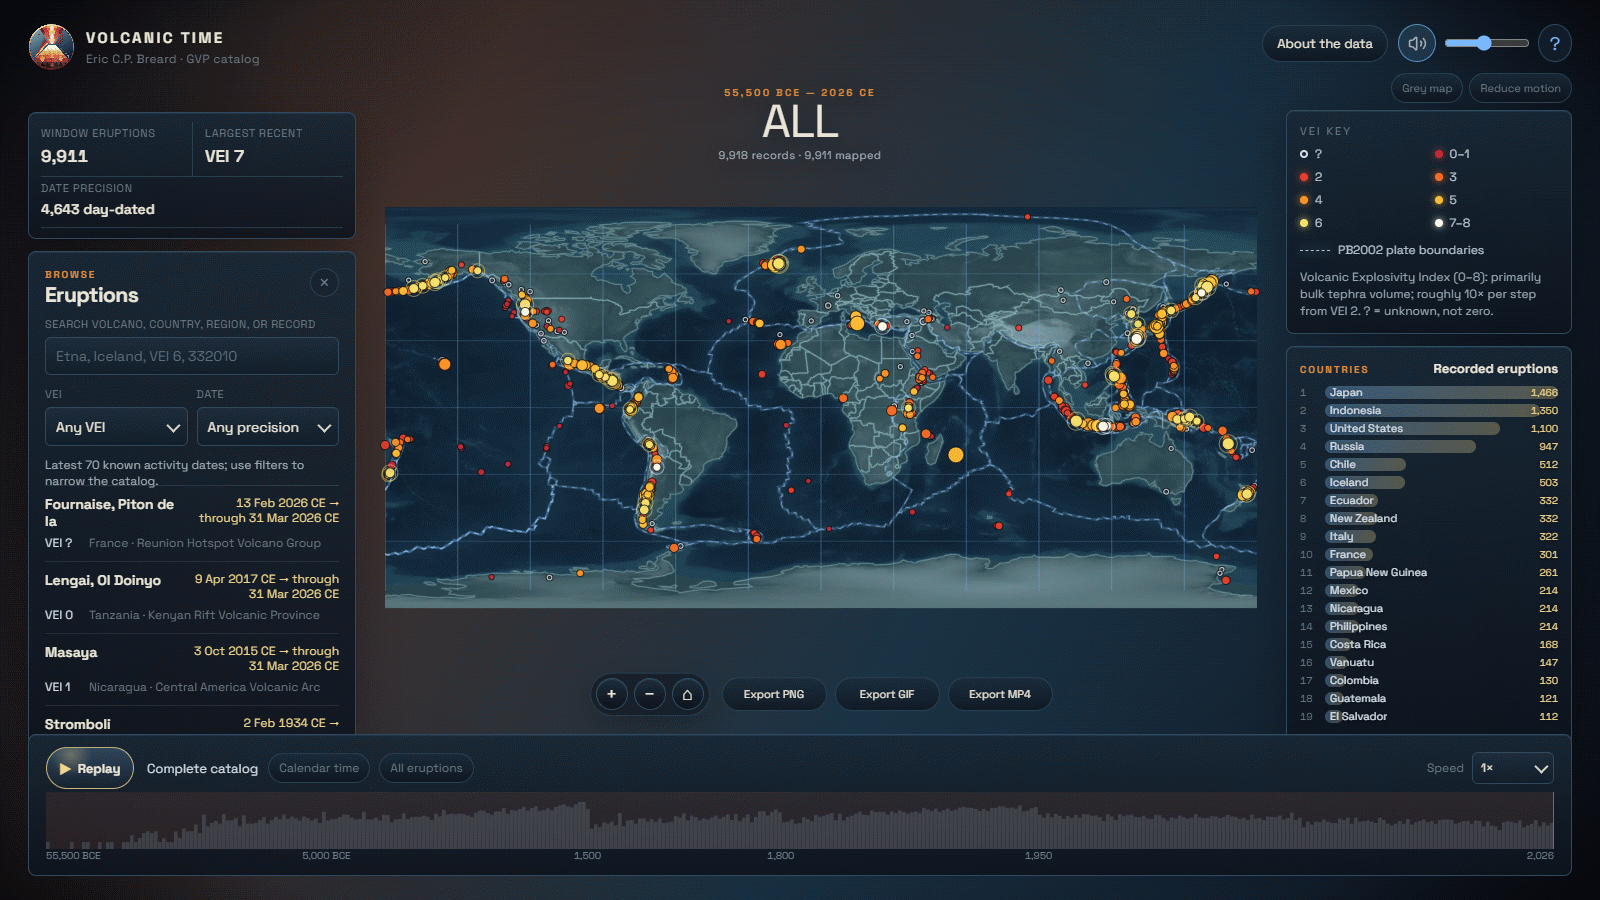
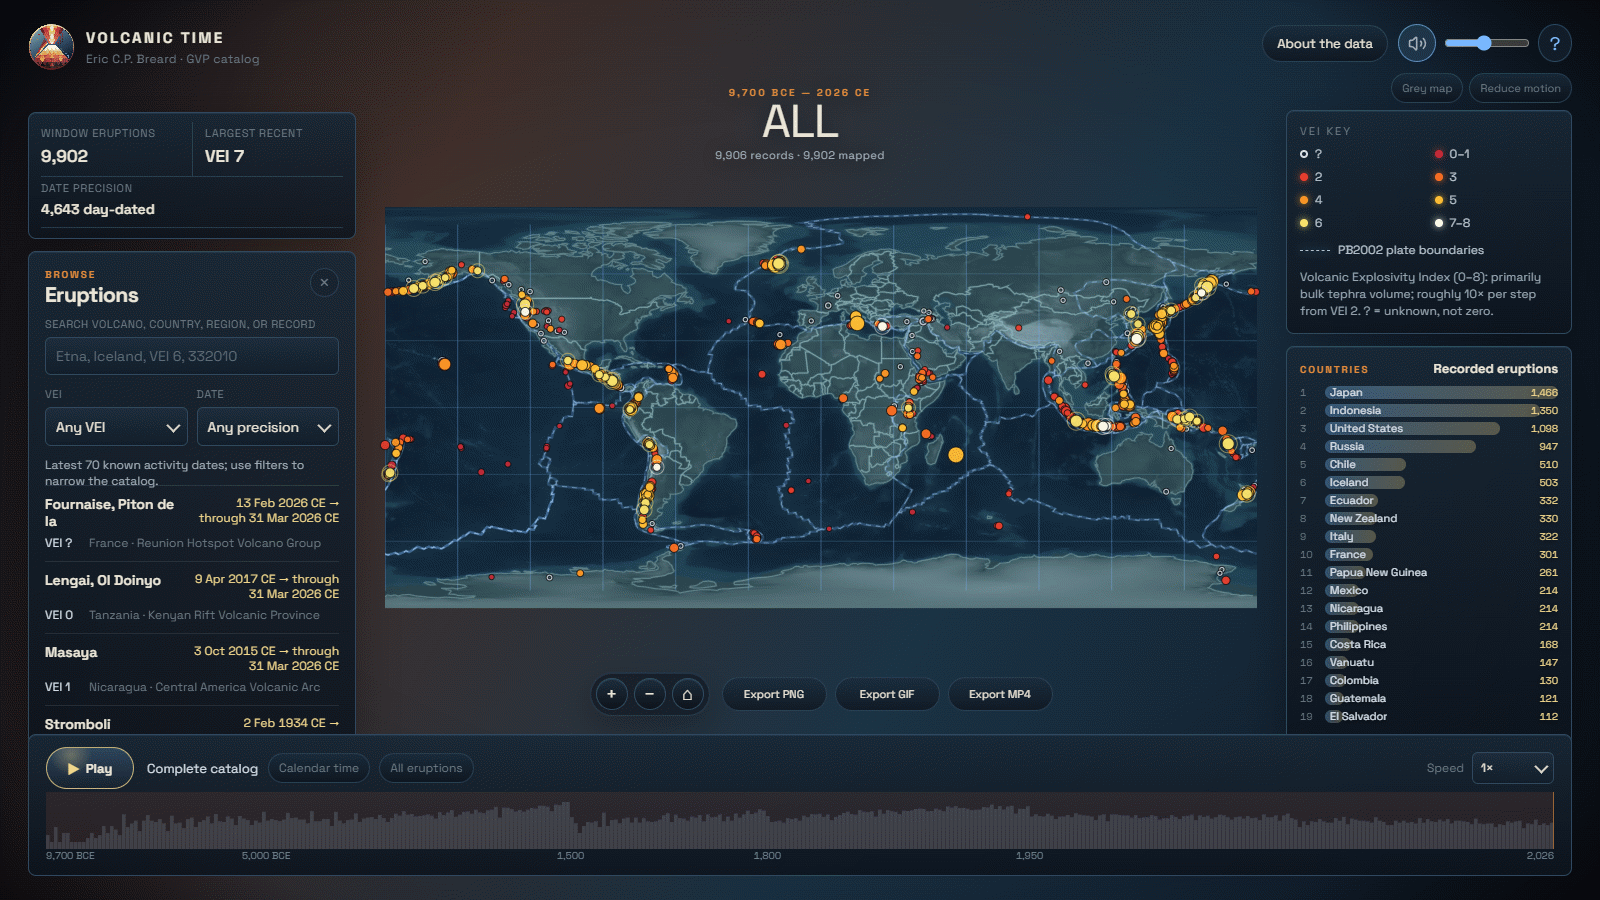
Keep only Holocene eruption records
The GVP Holocene export also lists twelve eruptions dated before 9,700 BCE, the oldest at 55,500 BCE, which stretched the timeline back well before the Holocene. They are now filtered out at load, the playback schedule starts at the first Holocene record, and the counts in the About text, README and screenshot follow.

diff --git a/index.html b/index.html
@@ -178,7 +178,7 @@
         <input id="scrubber" type="range" min="0" max="10000" value="0" aria-label="Historical date">
       </div>
       <div class="timeline-labels" aria-hidden="true">
-        <span>55,500 BCE</span><span>5000 BCE</span><span>1 CE</span><span>1500</span><span>1900</span><span>2026 CE</span>
+        <span>9,700 BCE</span><span>5000 BCE</span><span>1 CE</span><span>1500</span><span>1900</span><span>2026 CE</span>
       </div>
     </section>
 
@@ -215,7 +215,7 @@
       <button class="close dialog-close" aria-label="Close" value="close">×</button>
       <p class="eyebrow">ABOUT THE DATA</p>
       <h2>A record of observations, not a record of every eruption</h2>
-      <p>This visualization uses confirmed Holocene eruptions published by the Smithsonian Global Volcanism Program. Older records are much less complete, and their dates are often known only to a year or range. The app uses a dated Holocene eruption export, not the live weekly activity feed.</p>
+      <p>This visualization uses confirmed Holocene eruptions published by the Smithsonian Global Volcanism Program. Older records are much less complete, and their dates are often known only to a year or range. The app uses a dated Holocene eruption export, not the live weekly activity feed. Twelve records in that export are dated before 9,700 BCE, the start of the Holocene, and are left out.</p>
       <div class="method-grid">
         <div><strong>Colour</strong><span>Volcanic Explosivity Index</span></div>
         <div><strong>Soft pulse</strong><span>Imprecise start date</span></div>
@@ -254,7 +254,7 @@
         <p class="source-note"><a href="https://doi.org/10.1029/JC087iC02p01231" target="_blank" rel="noreferrer">Newhall &amp; Self (1982), The volcanic explosivity index (VEI): An estimate of explosive magnitude for historical volcanism ↗</a></p>
       </section>
       <h3>Hearing the catalogue</h3>
-      <p>Sonification means representing data with sound. Each of the 9,918 eruption records in the saved GVP catalogue plays a drum or cymbal hit. The 7,725 records with a known VEI also play a quiet piano note. The 2,193 records with an unknown VEI play only a tap on the snare drum's rim. The seven records without matched coordinates play equally through both speakers but have no map marker. These are musical sounds chosen to represent the data, not recordings of real eruptions.</p>
+      <p>Sonification means representing data with sound. Each of the 9,906 Holocene eruption records in the saved GVP catalogue plays a drum or cymbal hit. The 7,719 records with a known VEI also play a quiet piano note. The 2,187 records with an unknown VEI play only a tap on the snare drum's rim. The four records without matched coordinates play equally through both speakers but have no map marker. These are musical sounds chosen to represent the data, not recordings of real eruptions.</p>
       <ul class="source-note">
         <li><strong>Which drum or cymbal plays:</strong> VEI 0 uses closed hi-hat cymbals; 1, a bass drum (kick); 2, a snare drum; 3, a higher tom drum; 4, a lower tom drum; 5, a ride cymbal; 6, a crash cymbal; and 7-8, a China cymbal. Unknown VEI uses a drum-rim tap, a separate sound from VEI 0.</li>
         <li><strong>How high or low the piano note is:</strong> higher VEI produces a lower note that lasts longer. VEI 0-8 uses the notes D5, B4, A4, F#4, E4, D4, B3, A3 and F#3, in that order. Note duration is 0.24 + 0.065 x VEI seconds. These notes are musical choices, not the natural frequencies of eruptions.</li>
@@ -270,6 +270,6 @@
   </dialog>
 
   <script src="data.js"></script>
-  <script type="module" src="app.js?v=51"></script>
+  <script type="module" src="app.js?v=52"></script>
 </body>
 </html>

diff --git a/app.js b/app.js
@@ -12,7 +12,11 @@ import infoIcon from "./vendor/lucide/info.js";
   "use strict";
 
   const source = window.VOLCANIC_TIME_DATA;
-  const eruptions = source.eruptions.map((row, index) => {
+  // Holocene only: the GVP Holocene list also holds a few records dated before
+  // 9,700 BCE (11,700 years before 2000 CE), which are left out.
+  const holoceneStart = -9700;
+  const holoceneRows = source.eruptions.filter(row => row[5] >= holoceneStart);
+  const eruptions = holoceneRows.map((row, index) => {
     const volcano = source.volcanoes[row[1]];
     return {
       idx: index, n: row[0], v: row[1], year: row[2], month: row[3], day: row[4], t: row[5],
@@ -22,9 +26,14 @@ import infoIcon from "./vendor/lucide/info.js";
       country: volcano[1], region: volcano[2], type: volcano[3], tectonic: volcano[4],
       rock: volcano[5], lat: volcano[6], lon: volcano[7],
     };
-  }).concat(unlocatedEruptions).sort((a, b) => a.t - b.t || a.n - b.n);
+  }).concat(unlocatedEruptions.filter(event => event.t >= holoceneStart)).sort((a, b) => a.t - b.t || a.n - b.n);
   eruptions.forEach((event, index) => { event.idx = index; });
-  const meta = source.meta;
+  const meta = {
+    ...source.meta,
+    mappedEruptions: holoceneRows.length,
+    knownVei: holoceneRows.filter(row => row[9] != null).length,
+    dayPrecision: holoceneRows.filter(row => row[6] === 2).length,
+  };
   const minYear = eruptions[0].t;
   const maxYear = eruptions[eruptions.length - 1].t + 1 / 365;
   const plateBoundaryUrl = "https://raw.githubusercontent.com/fraxen/tectonicplates/master/GeoJSON/PB2002_boundaries.json";
@@ -132,8 +141,7 @@ import infoIcon from "./vendor/lucide/info.js";
   const cancelExportButton = document.querySelector("#cancelExportButton");
 
   const schedule = [
-    { from: minYear, to: -11345, rate: (-11345 - minYear) / 3 },
-    { from: -11345, to: 1500, rate: (1500 + 11345) / 60 },
+    { from: minYear, to: 1500, rate: (1500 - minYear) / 60 },
     { from: 1500, to: 1800, rate: 300 / 22.5 },
     { from: 1800, to: 1950, rate: 150 / 30 },
     { from: 1950, to: 2000, rate: 50 / 30 },

diff --git a/README.md b/README.md
@@ -1,6 +1,6 @@
 # Volcanic Time
 
-Watch about 9,900 recorded Holocene volcanic eruptions appear on a world map, from 55,500 BCE to 2026 CE, and hear them as drums and piano.
+Watch about 9,900 recorded Holocene volcanic eruptions appear on a world map, from 9,700 BCE to 2026 CE, and hear them as drums and piano.
 
 **[Open the live app](https://ebreard.github.io/volcanic-time/)**
 
@@ -10,7 +10,7 @@ Built by Eric C.P. Breard, University of Edinburgh, School of GeoSciences.
 
 ## What it does
 
-- Plays the whole Smithsonian Global Volcanism Program (GVP) Holocene eruption catalogue through time: 9,918 eruption records. The 9,911 that can be placed on the map come from 848 volcanoes.
+- Plays the whole Smithsonian Global Volcanism Program (GVP) Holocene eruption catalogue through time: 9,906 eruption records. The 9,902 that can be placed on the map come from 848 volcanoes. Twelve records in the GVP export are dated before 9,700 BCE, the start of the Holocene, and are left out.
 - Colours each eruption by its Volcanic Explosivity Index (VEI) and marks how precisely its start date is known.
 - Turns each record into sound: a drum or cymbal hit chosen by VEI, plus a quiet piano note when the VEI is known. Longitude sets left and right balance.
 - Lets you search by volcano, country, region or record number, and filter by VEI and date precision.
